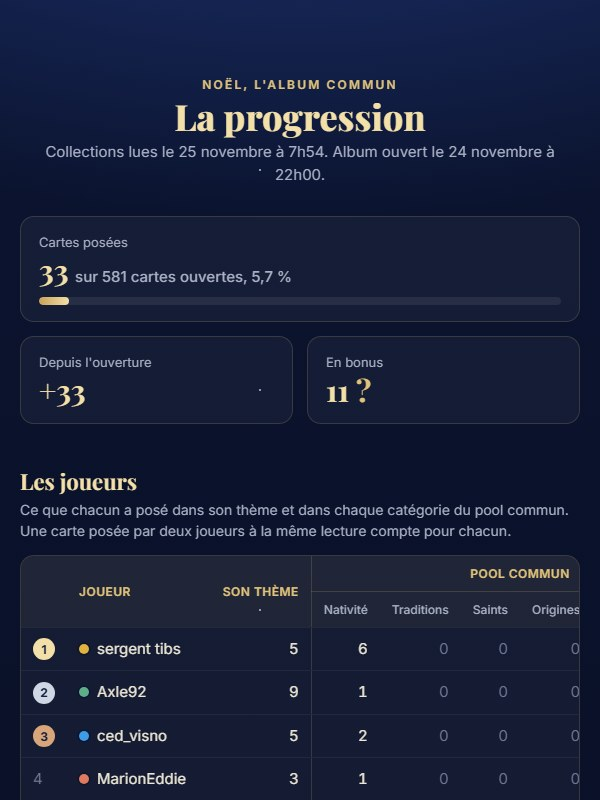
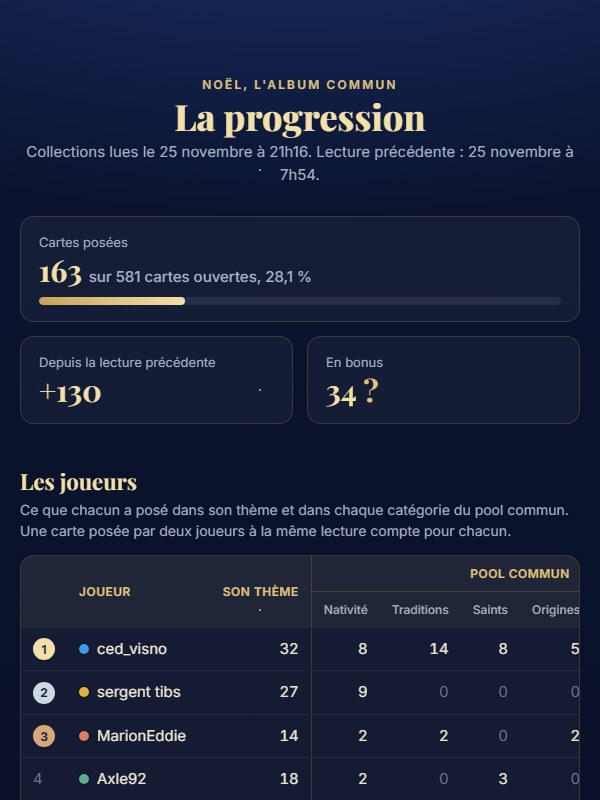
Noël progression: sync 25/11 evening

diff --git a/noel-progression/index.html b/noel-progression/index.html
@@ -96,7 +96,7 @@
 <footer>Projet entre amis. Jeu, nom et visuels à WikiMasters, images Wikipédia.</footer>
 </main>
 <script>
-  const DATA = {"when": "Collections lues le 25 novembre à 7h54. Album ouvert le 24 novembre à 22h00.", "prev_label": "Depuis l'ouverture", "autres_when": "Plus mis à jour depuis le 25 novembre. Dernière lecture : 24 novembre à 12h47.", "bonus": 11, "COLORS": {"MarionEddie": "#e07a5f", "ced_visno": "#3d9be9", "Axle92": "#5fae8a", "sergent tibs": "#e3b23c", "Dahevic": "#a77bdc", "Cuervo": "#e57fa8"}, "POOL": ["Nativité", "Traditions", "Saints", "Origines", "Films", "Animation"], "JOUEURS": [["MarionEddie", 3, [1, 0, 0, 0, 0, 1], 6], ["ced_visno", 5, [2, 0, 0, 0, 0, 0], 1], ["Axle92", 9, [1, 0, 0, 0, 0, 0], 3], ["sergent tibs", 5, [6, 0, 0, 0, 0, 0], 0], ["Dahevic", 0, [0, 0, 0, 0, 0, 0], 0], ["Cuervo", 0, [1, 0, 0, 0, 0, 0], 1]], "CHAPITRES": [["La Nativité", null, 62, 10, 0], ["Traditions et symboles", null, 55, 0, 0], ["Saints et porteurs de cadeaux", null, 24, 0, 0], ["Origines et fêtes d'hiver", null, 16, 0, 0], ["Films de Noël", null, 53, 0, 0], ["Animation, séries et acteurs", null, 58, 1, 0], ["Table de Noël", "ced_visno", 82, 5, 0], ["Jouets et cadeaux", "Dahevic", 37, 0, 0], ["Hiver et nature", "Cuervo", 33, 0, 0], ["Marchés, villes et Noël dans le monde", "sergent tibs", 62, 5, 0], ["Histoire, pop culture et pub", "MarionEddie", 36, 3, 0], ["Musique et littérature", "Axle92", 63, 9, 0]], "AUTRES": [["Ovalini", 142, 129], ["Le Grand Recensement", 225, 78]]};
+  const DATA = {"when": "Collections lues le 25 novembre à 21h16. Lecture précédente : 25 novembre à 7h54.", "prev_label": "Depuis la lecture précédente", "autres_when": "Plus mis à jour depuis le 25 novembre. Dernière lecture : 24 novembre à 12h47.", "bonus": 34, "COLORS": {"MarionEddie": "#e07a5f", "ced_visno": "#3d9be9", "Axle92": "#5fae8a", "sergent tibs": "#e3b23c", "Dahevic": "#a77bdc", "Cuervo": "#e57fa8"}, "POOL": ["Nativité", "Traditions", "Saints", "Origines", "Films", "Animation"], "JOUEURS": [["MarionEddie", 14, [2, 2, 0, 2, 8, 5], 16], ["ced_visno", 32, [8, 14, 8, 5, 0, 0], 8], ["Axle92", 18, [2, 0, 3, 0, 1, 4], 4], ["sergent tibs", 27, [9, 0, 0, 0, 0, 0], 0], ["Dahevic", 0, [0, 0, 0, 0, 0, 0], 0], ["Cuervo", 2, [1, 0, 0, 0, 0, 0], 8]], "CHAPITRES": [["La Nativité", null, 62, 21, 10], ["Traditions et symboles", null, 55, 15, 0], ["Saints et porteurs de cadeaux", null, 24, 9, 0], ["Origines et fêtes d'hiver", null, 16, 7, 0], ["Films de Noël", null, 53, 9, 0], ["Animation, séries et acteurs", null, 58, 9, 1], ["Table de Noël", "ced_visno", 82, 32, 5], ["Jouets et cadeaux", "Dahevic", 37, 0, 0], ["Hiver et nature", "Cuervo", 33, 2, 0], ["Marchés, villes et Noël dans le monde", "sergent tibs", 62, 27, 5], ["Histoire, pop culture et pub", "MarionEddie", 36, 14, 3], ["Musique et littérature", "Axle92", 63, 18, 9]], "AUTRES": [["Ovalini", 142, 129], ["Le Grand Recensement", 225, 78]]};
   const { COLORS, POOL, JOUEURS, CHAPITRES, AUTRES } = DATA;
   document.getElementById("when").textContent = DATA.when;
   document.getElementById("autres-when").textContent = DATA.autres_when;
